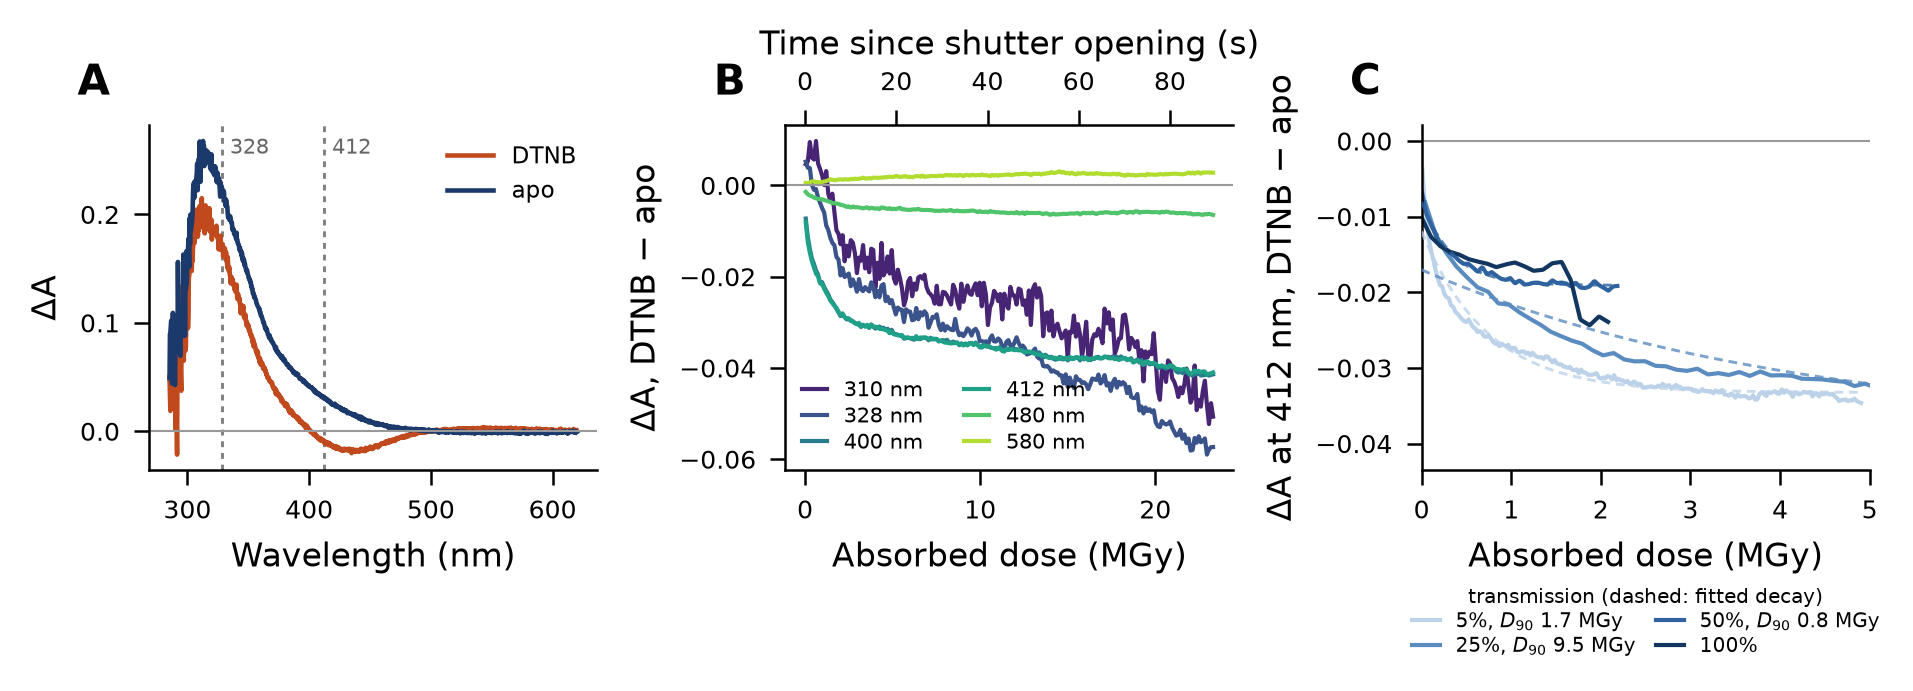
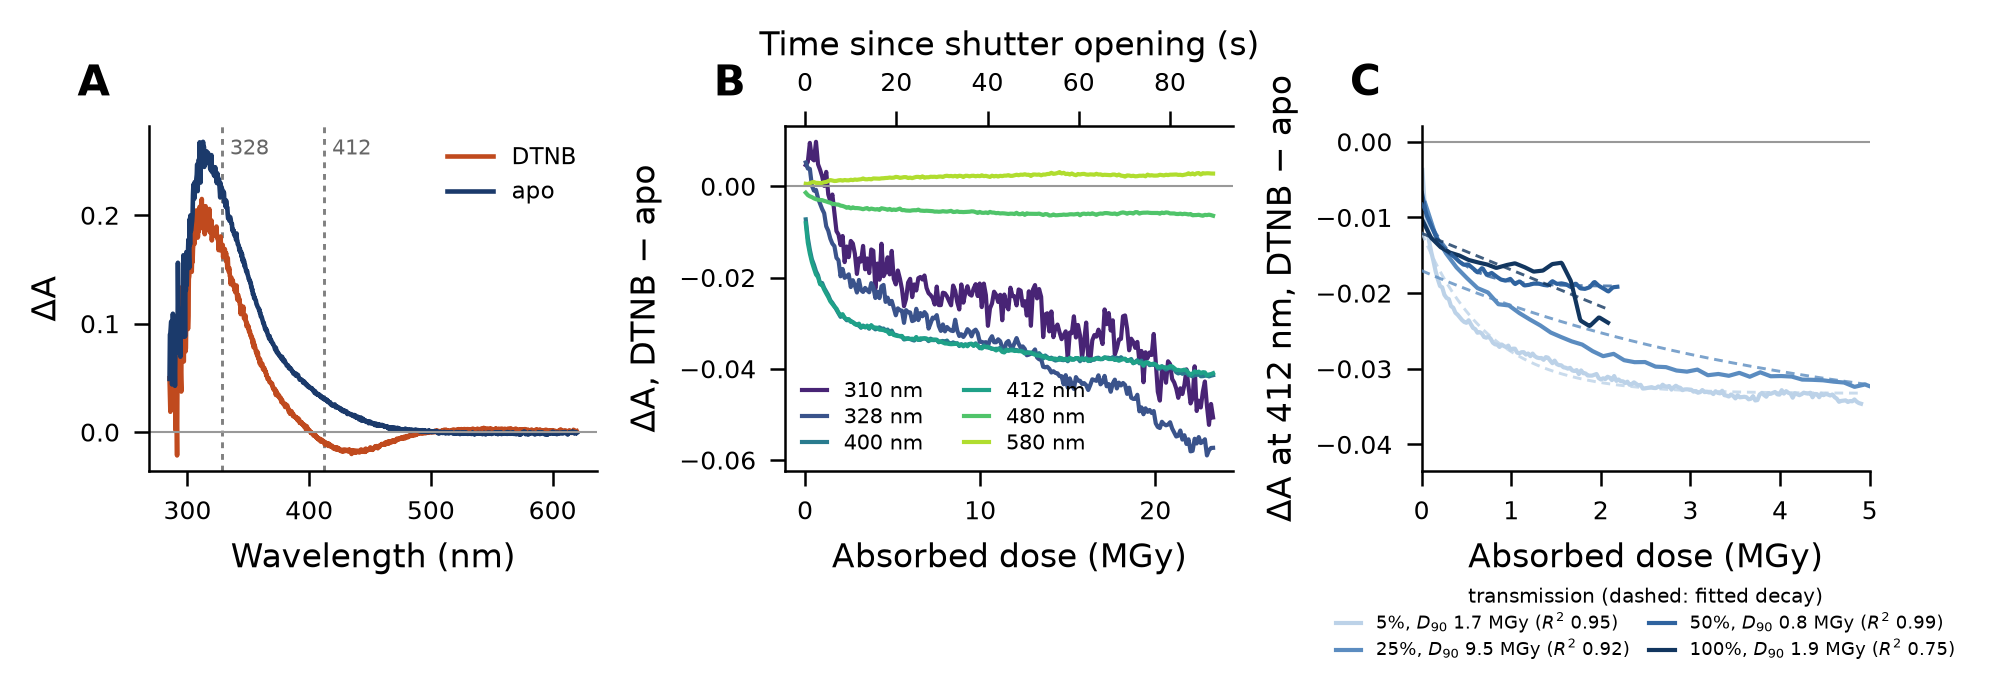
Show D90 and R2 for every converged fit in figure 2 panel C
The R2 > 0.8 gate silently dropped the 100 % transmission entry (R2 0.75),
leaving the figure short of a value the text quotes.  All four now carry both
numbers so the reader weighs fit quality rather than having it withheld.

diff --git a/src/crystalspec/figures.py b/src/crystalspec/figures.py
@@ -1394,12 +1394,18 @@ def figure_diagnostic_wavelengths(results, out_path, half_width=4.0,
             continue
         step = max(1, int(g.size / 200))
         fit = fit_single_exponential(g, diff, falling_segment_only=False)
+        # Report every converged fit with its R2 rather than hiding the weaker
+        # ones: suppressing the 100 % entry (R2 0.75) left the figure silently
+        # short of a value the text quotes.  The reader weighs the quality.
+        ok_fit = (np.isfinite(fit["R2_single"]) and np.isfinite(fit["D90_MGy"])
+                  and not fit["D90_is_lower_bound"])
         lab = f"{T}%"
-        if np.isfinite(fit["R2_single"]) and fit["R2_single"] > 0.8:
-            lab = f"{T}%, $D_{{90}}$ {fit['D90_MGy']:.1f} MGy"
+        if ok_fit:
+            lab = (f"{T}%, $D_{{90}}$ {fit['D90_MGy']:.1f} MGy"
+                   f" ($R^2$ {fit['R2_single']:.2f})")
         ax_c.plot(g[step // 2::step], diff[step // 2::step],
                   color=TRANSMISSION[T], lw=1.0, label=lab)
-        if np.isfinite(fit["R2_single"]) and fit["R2_single"] > 0.8:
+        if ok_fit:
             try:
                 popt, _ = curve_fit(
                     expo, g, diff,
@@ -1420,7 +1426,7 @@ def figure_diagnostic_wavelengths(results, out_path, half_width=4.0,
     # Below the axes: at this panel size every in-axes corner is occupied by
     # a trace, and four entries with fitted values are too wide to inset.
     ax_c.legend(loc="upper center", bbox_to_anchor=(0.5, -0.30), ncol=2,
-                fontsize=4.8, framealpha=0.0,
+                fontsize=4.4, framealpha=0.0,
                 title="transmission (dashed: fitted decay)",
                 title_fontsize=4.8, handlelength=1.4, labelspacing=0.22,
                 columnspacing=1.0, borderpad=0.2)
